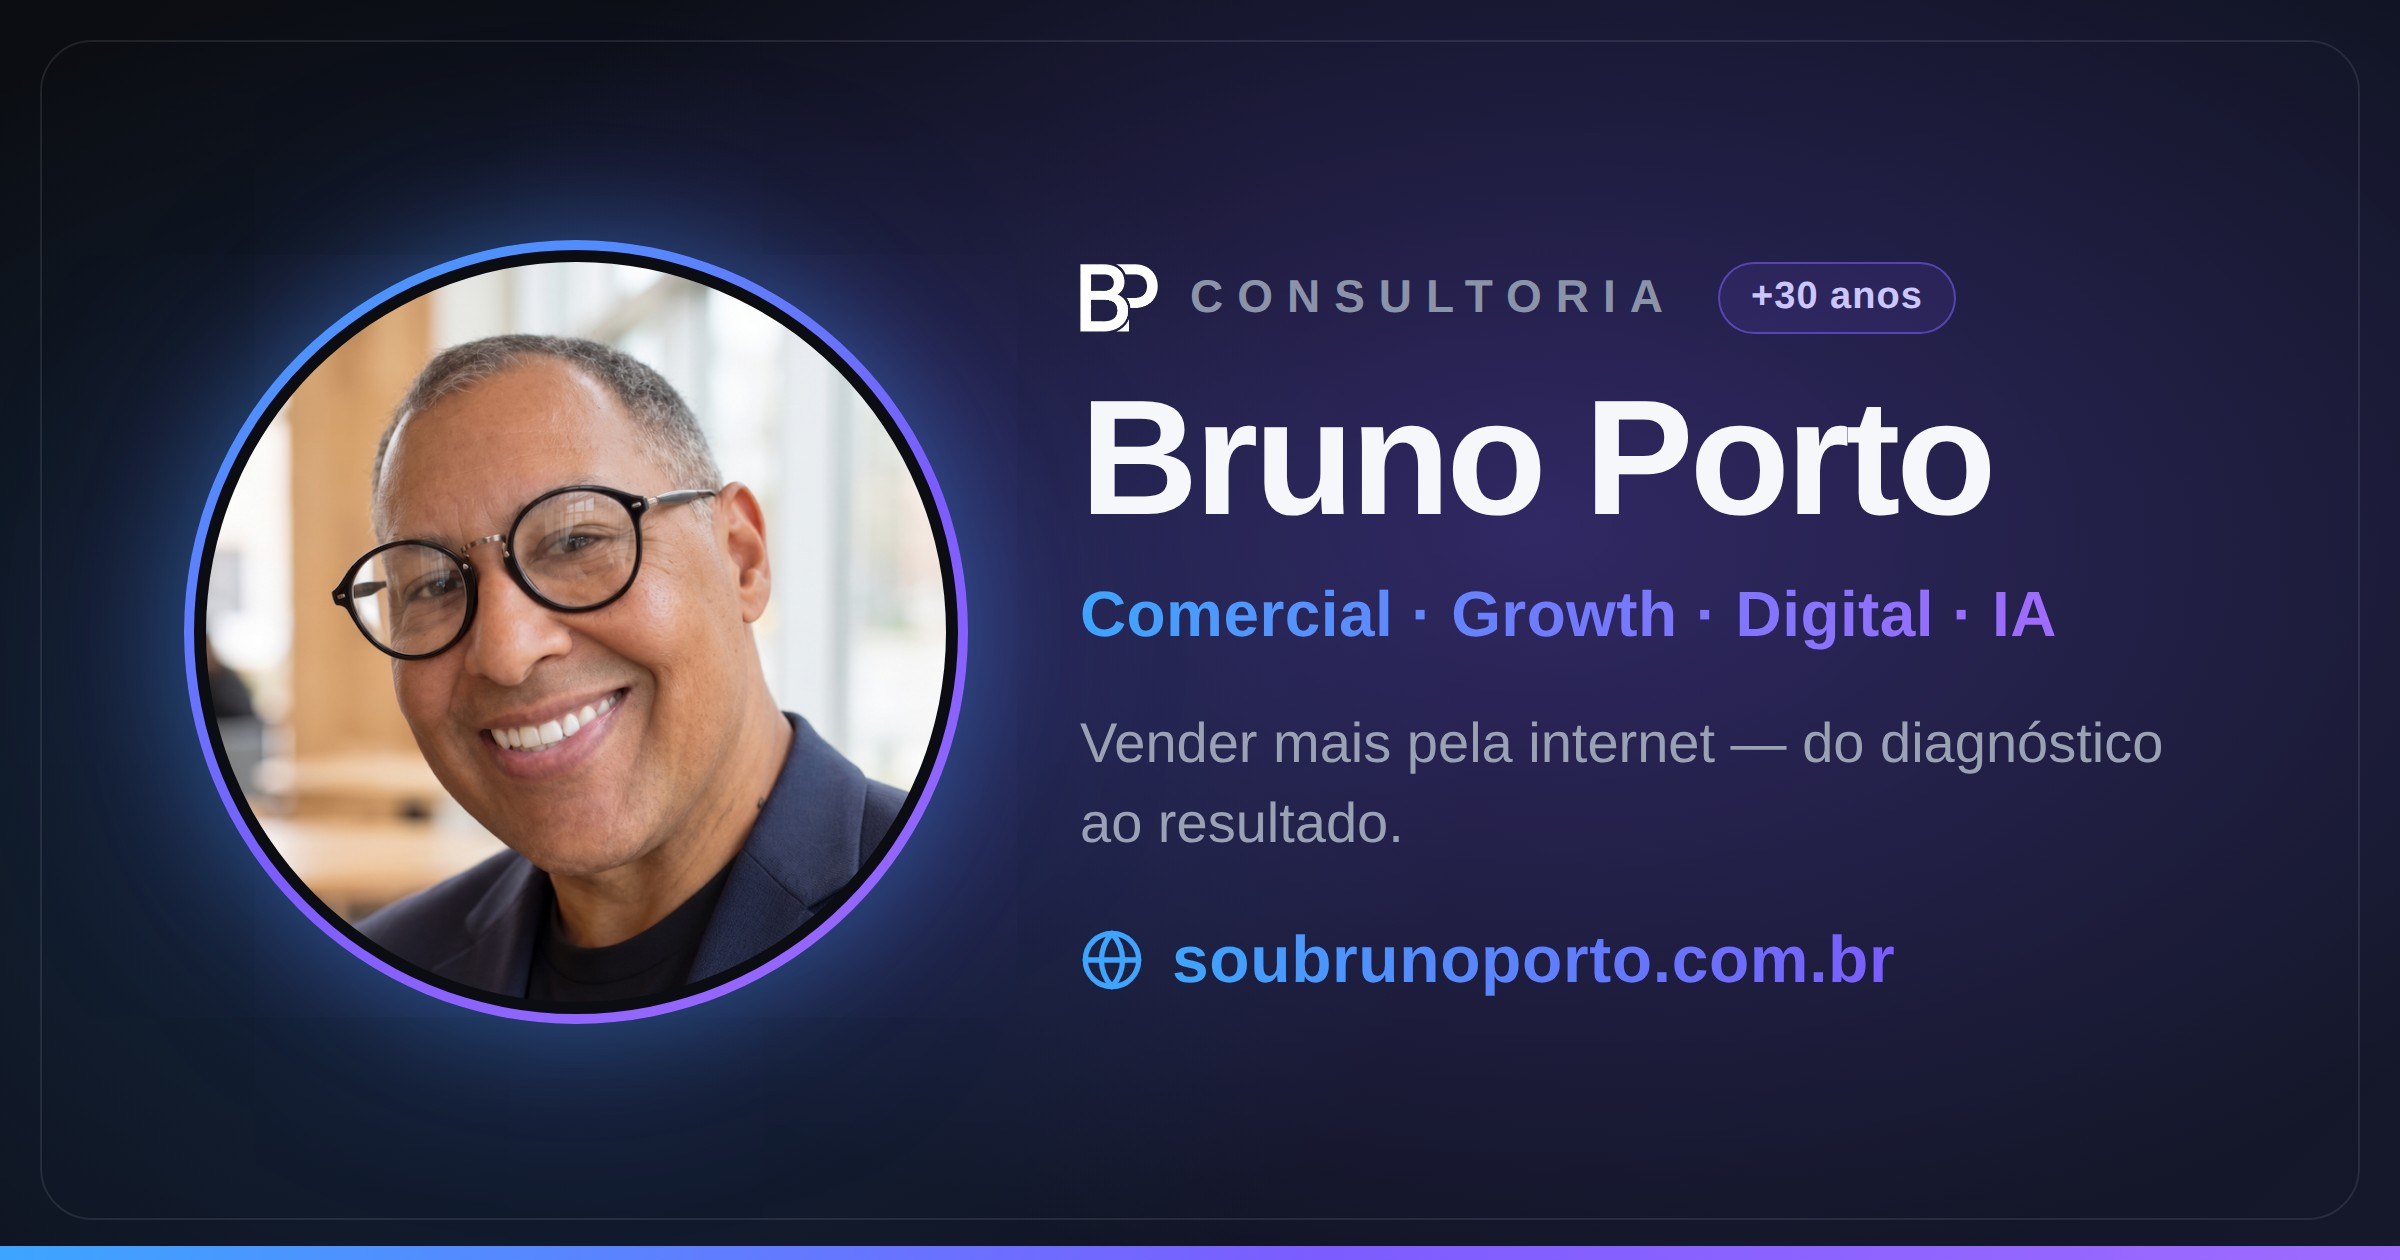
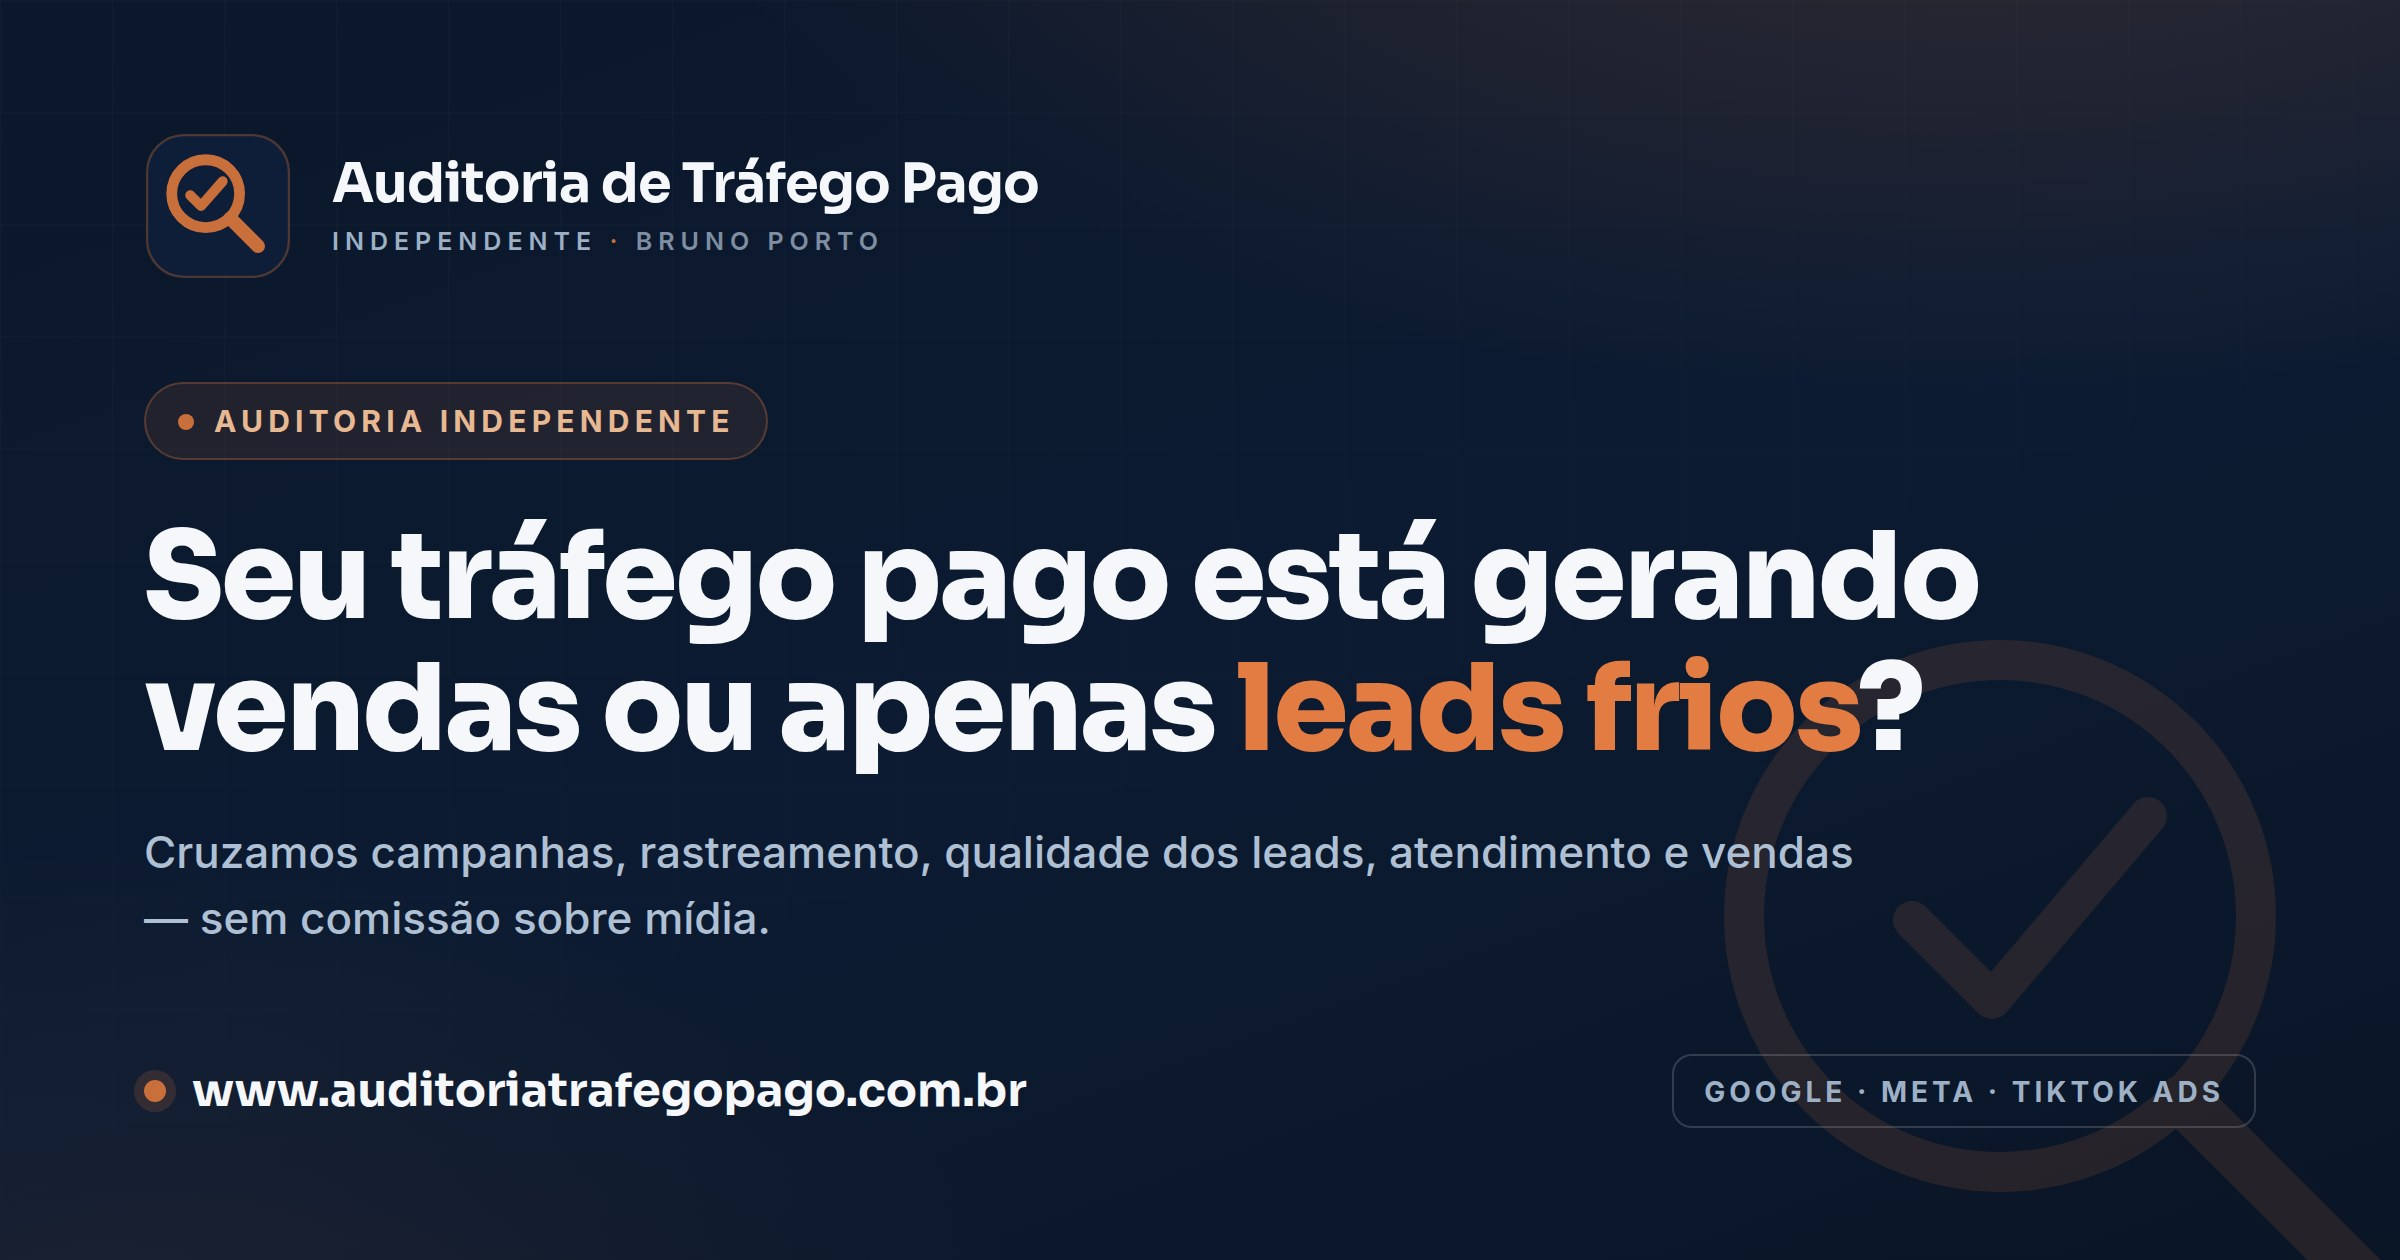
Auditoria: card social (OG) definitivo com a identidade da marca
Substitui o placeholder do og-card.jpg por uma arte 1200x630 (exportada em
2x, 2400x1260) no visual da marca: fundo navy com grade sutil, símbolo da
lupa como marca d'água, headline "Seu tráfego pago está gerando vendas ou
apenas leads frios?" (com "leads frios" em cobre), subtítulo, URL em www e
selo "Google · Meta · TikTok Ads". Atualiza o comentário da metatag og:image.

Claude-Session: https://claude.ai/code/session_016sAVJ4CYjFn366RZWKj1D9

diff --git a/auditoria-trafego-pago/index.html b/auditoria-trafego-pago/index.html
@@ -17,7 +17,7 @@
   <meta property="og:site_name" content="Auditoria Independente de Tráfego Pago" />
   <meta property="og:locale" content="pt_BR" />
   <meta property="og:url" content="https://www.auditoriatrafegopago.com.br/" />
-  <!-- PLACEHOLDER: imagem social dedicada 1200x630 desta landing (substituir /assets/og-card.jpg). -->
+  <!-- Card social 1200x630 (exportado em 2x: 2400x1260) com a identidade da marca. -->
   <meta property="og:image" content="https://www.auditoriatrafegopago.com.br/assets/og-card.jpg" />
   <meta property="og:image:width" content="1200" />
   <meta property="og:image:height" content="630" />
